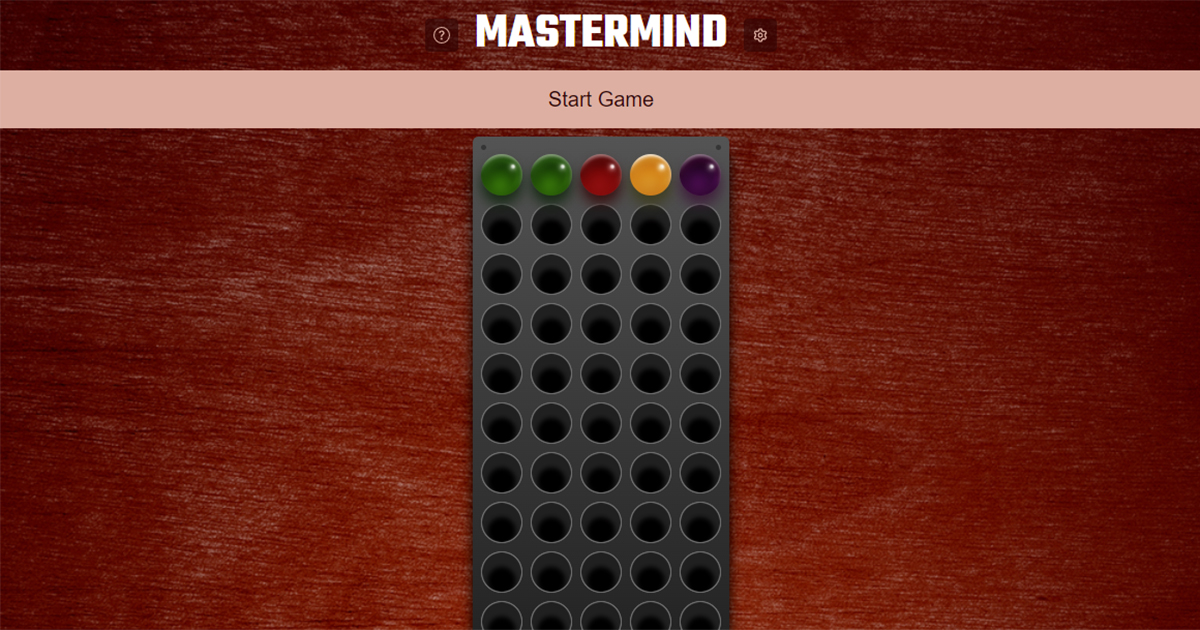
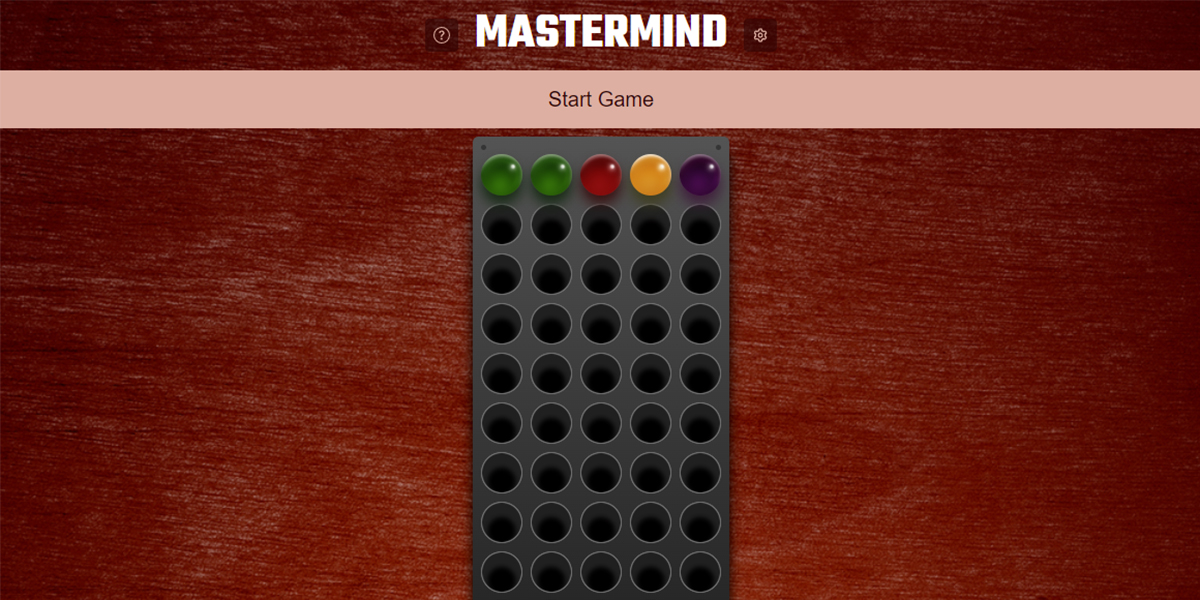
resized the image to 2:1 and changed path

diff --git a/public/index.html b/public/index.html
@@ -15,7 +15,7 @@
           name="twitter:description"
           content="I'm a new Jr Designer looking for work and this is a project I made."
         />
-        <meta name="twitter:image" content="%PUBLIC_URL%/preview.jpg" />
+        <meta name="twitter:image" content="./images/preview.jpg" />
 
         <meta
           property="og:url"
